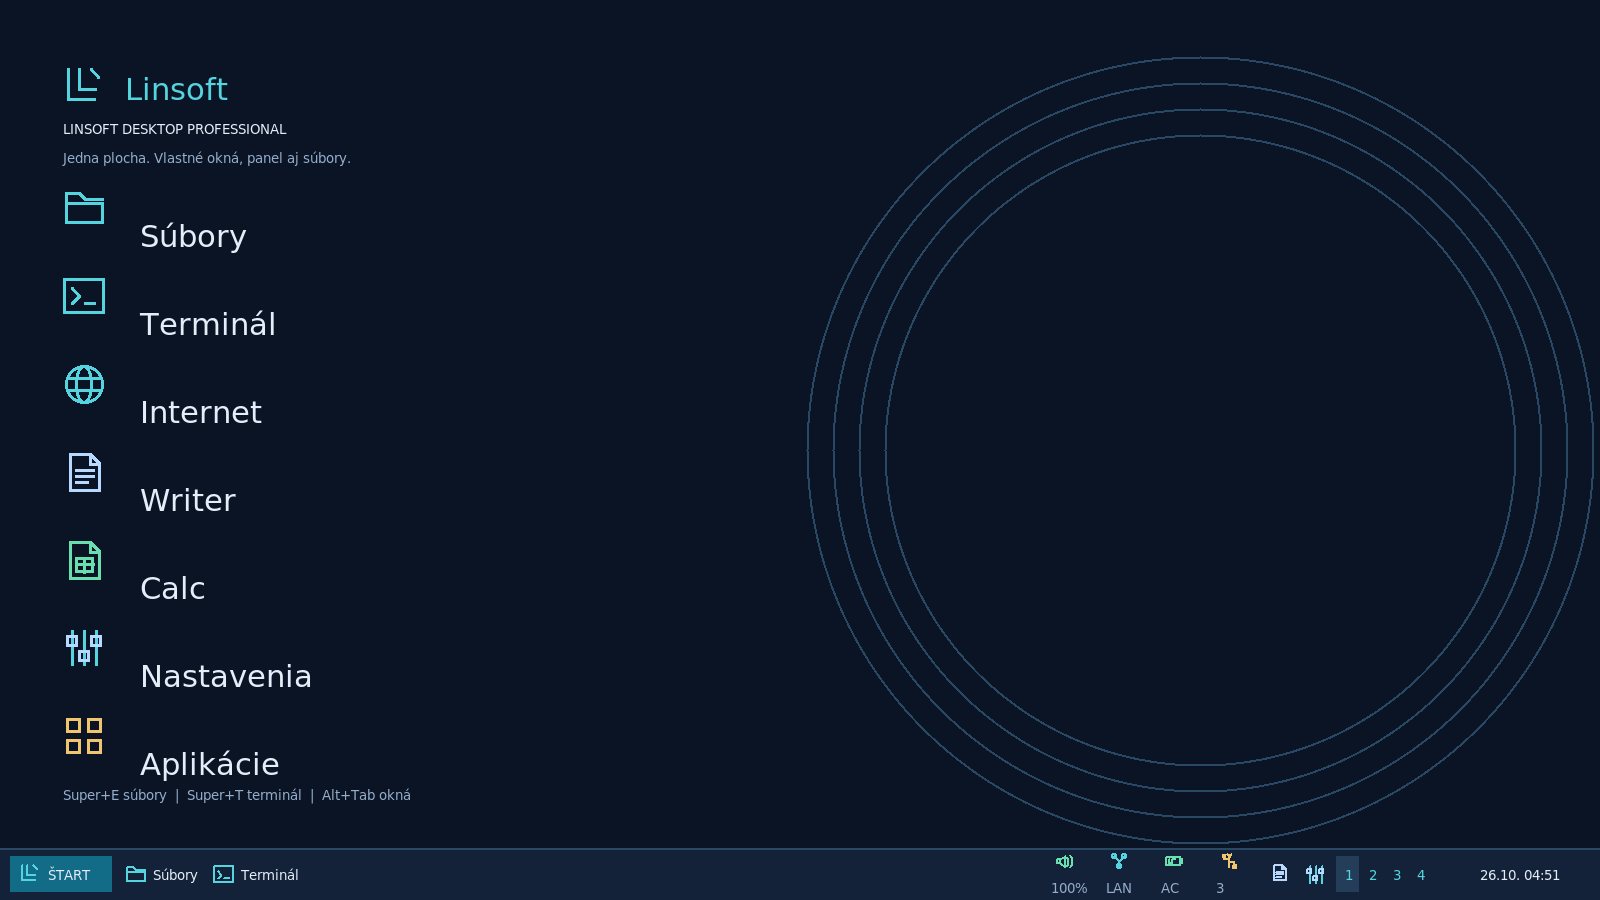
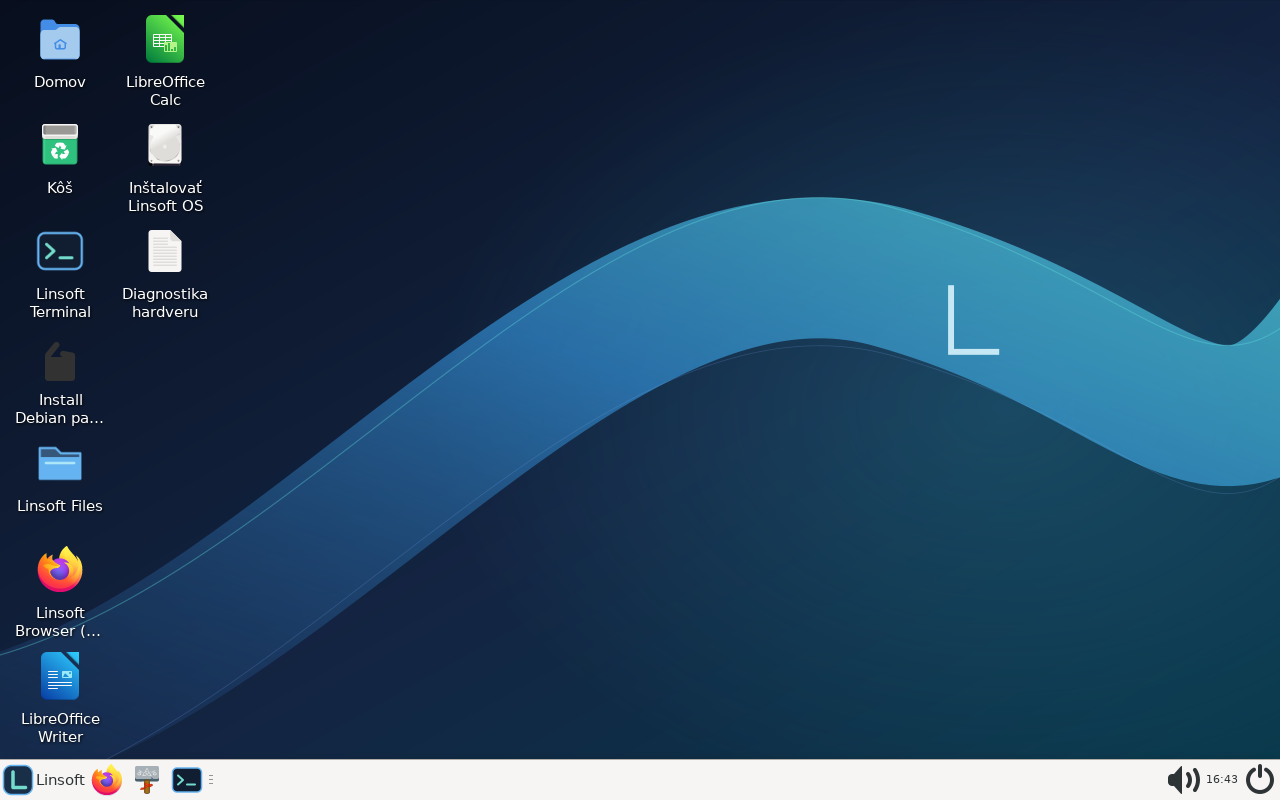
Linsoft OS 1.4: XFCE as the default desktop
XFCE 4.20 with a Linsoft panel, wallpaper and power menu is the default;
Linsoft Native stays selectable per user. Repair panel launchers left empty
by a power loss. Full ISO test (steps 1-7) passes.

diff --git a/docs/index.html b/docs/index.html
@@ -13,7 +13,7 @@
 <meta property="og:image" content="https://linsoft1.github.io/linsoft-os/img/desktop.png">
 <meta name="twitter:card" content="summary_large_image">
 <link rel="icon" type="image/svg+xml" href="favicon.svg">
-<link rel="stylesheet" href="style.css?v=1.3.0">
+<link rel="stylesheet" href="style.css?v=1.4.0">
 </head>
 <body>
 <a class="skip-link" href="#obsah">Preskočiť na obsah</a>
@@ -27,7 +27,7 @@
   </nav>
   <div class="hero-text">
     <h1>Linsoft OS</h1>
-    <p class="version">Verzia 1.3 · vydané 26. 10. 2026</p>
+    <p class="version">Verzia 1.4 · vydané 26. 10. 2026</p>
     <p class="tag">Váš priestor. Váš systém.</p>
     <p>Vlastný operačný systém postavený od základu na Linux From Scratch&nbsp;12.4 – s originálnou pracovnou plochou, správcom súborov a panelom napísanými v C.</p>
     <a class="btn" href="https://github.com/Linsoft1/linsoft-os/releases/latest/download/Linsoft-OS-Live.iso">⬇ Stiahnuť Live ISO</a>
@@ -43,7 +43,7 @@
   <div class="grid">
     <div><h3>Live režim</h3><p>Spustite systém priamo z USB alebo DVD. Nič sa nezapisuje na disk – zmeny sú iba v pamäti.</p></div>
     <div><h3>Inštalátor</h3><p>Nainštalujete Linsoft OS na celý disk alebo vedľa Windows, s heslom alebo s automatickým prihlásením. Podporuje BIOS aj UEFI vrátane Secure Boot (pozri <a href="#podpora">podporované počítače</a>).</p></div>
-    <div><h3>Vlastná plocha</h3><p>Originálny správca okien, panel, Štart s vyhľadávaním, 4 pracovné plochy a správca súborov s kartami.</p></div>
+    <div><h3>Plocha XFCE aj vlastná plocha</h3><p>Predvolene osvedčené prostredie XFCE s panelom Linsoft. Na výber aj originálna plocha Linsoft Native napísaná v C – správca okien, panel, Štart s vyhľadávaním a správca súborov s kartami.</p></div>
     <div><h3>Skutočný hardvér</h3><p>Jadro 6.18 LTS s ovládačmi Wi-Fi (Intel, Realtek, MediaTek, Atheros, Broadcom), grafiky AMD, NVIDIA a Intel, touchpadov a zvuku notebookov, vrátane firmvéru.</p></div>
     <div><h3>Wi-Fi a diagnostika</h3><p>Pripojenie na Wi-Fi s heslom (WPA2/WPA3) jedným klikom a diagnostika hardvéru, ktorá ukáže chýbajúce ovládače a firmvér.</p></div>
     <div><h3>Aplikácie</h3><p>Firefox, LibreOffice Writer a Calc, terminál, nastavenia a inštalácia dôveryhodných .deb balíkov.</p></div>
@@ -72,13 +72,13 @@
   <div class="table-wrap">
     <table class="ver">
       <tbody>
-        <tr><th scope="row">Linsoft OS</th><td>1.3 (Live + inštalátor)</td></tr>
+        <tr><th scope="row">Linsoft OS</th><td>1.4 (Live + inštalátor)</td></tr>
         <tr><th scope="row">Dátum vydania</th><td>26. 10. 2026</td></tr>
         <tr><th scope="row">Jadro</th><td>Linsoft Kernel 6.18.58 LTS (<code>6.18.58-linsoft-kernel</code>)</td></tr>
         <tr><th scope="row">Základ systému</th><td>Linux From Scratch 12.4</td></tr>
         <tr><th scope="row">Firmvér</th><td>Debian non-free-firmware (Wi-Fi, grafika, zvuk, Bluetooth)</td></tr>
         <tr><th scope="row">Aplikačné prostredie</th><td>Debian 13</td></tr>
-        <tr><th scope="row">Pracovná plocha</th><td>Linsoft Native (C, Xlib, Xft)</td></tr>
+        <tr><th scope="row">Pracovná plocha</th><td>XFCE 4.20 (predvolená) · Linsoft Native (C, Xlib, Xft) na výber</td></tr>
         <tr><th scope="row">Architektúra</th><td>x86-64 · BIOS aj UEFI · Secure Boot</td></tr>
         <tr><th scope="row">ISO súbor</th><td>Linsoft-OS-Live.iso · 1,81 GB (1,68 GiB)</td></tr>
       </tbody>
@@ -87,9 +87,18 @@
 </section>
 
 <section id="novinky">
-  <h2>Čo prináša verzia 1.3</h2>
+  <h2>Čo prináša verzia 1.4</h2>
   <div class="release-note">
-    <p class="version">26. 10. 2026 · aktualizácie jadra</p>
+    <p class="version">26. 10. 2026 · plocha XFCE</p>
+    <ul>
+      <li><b>XFCE ako predvolená plocha</b> – panel dole s ponukou Linsoft, prehliadačom, súbormi, terminálom, oknami, hlasitosťou, hodinami a tlačidlom vypnutia.</li>
+      <li>Tapeta Linsoft, tmavý vzhľad a čistá plocha bez ikon diskov.</li>
+      <li><b>Linsoft Native zostáva</b> – v okne <b>Zmeniť pracovné prostredie</b> si vyberiete XFCE alebo Linsoft Native pre ďalšie prihlásenie.</li>
+      <li>Nové okno <b>Vypnúť alebo odhlásiť</b>: zamknúť, odhlásiť, reštartovať, vypnúť.</li>
+    </ul>
+  </div>
+  <div class="release-note">
+    <p class="version">Verzia 1.3 · 26. 10. 2026 · aktualizácie jadra</p>
     <ul>
       <li><b>Aktualizácia jadra priamo v systéme</b> – okno Aktualizácie stiahne novšie jadro Linsoft Kernel z GitHubu a nainštaluje ho bez nového ISO.</li>
       <li>Balík jadra je podpísaný kľúčom Linsoft; podvrhnutý alebo poškodený balík sa odmietne skôr, než sa čokoľvek zmení.</li>
@@ -134,7 +143,7 @@
   <details class="verify">
     <summary>Ako overiť stiahnutý súbor</summary>
     <p>Porovnajte vypočítaný SHA-256 súčet ISO s touto hodnotou:</p>
-    <p><code class="hash">0cc98f4a4e7332fcb27a3e511b8ff31d720d61e32d118e70952461a64a3fd0ae</code></p>
+    <p><code class="hash">c6f0a8e5431552a09eb7e56165e0cfc03f49290f1aa73689ede5301db5945e1b</code></p>
     <p>Windows PowerShell: <code>Get-FileHash .\Linsoft-OS-Live.iso -Algorithm SHA256</code></p>
     <p>Linux: <code>sha256sum Linsoft-OS-Live.iso</code></p>
     <p>Kontrolný súčet sa dá stiahnuť aj zo <a href="https://github.com/Linsoft1/linsoft-os/releases/latest">stránky vydania</a>.</p>
@@ -218,7 +227,7 @@
 </main>
 
 <footer>
-  <p>Linsoft OS 1.3 · autor <b>Martin Pastorek</b> · postavené na <a href="https://www.linuxfromscratch.org/">Linux From Scratch</a>, Linuxe, Debiane a ďalšom open-source softvéri, ktorý patrí ich autorom.</p>
+  <p>Linsoft OS 1.4 · autor <b>Martin Pastorek</b> · postavené na <a href="https://www.linuxfromscratch.org/">Linux From Scratch</a>, Linuxe, Debiane a ďalšom open-source softvéri, ktorý patrí ich autorom.</p>
   <p><a href="https://github.com/Linsoft1/linsoft-os">Zdrojový kód</a> · <a href="https://github.com/Linsoft1/linsoft-os/issues">Nahlásiť problém</a> · <a href="https://github.com/Linsoft1/linsoft-os/releases">Vydania</a></p>
 </footer>
 </body>

diff --git a/README.md b/README.md
@@ -4,7 +4,7 @@
 from scratch on Linux From Scratch 12.4, with an original C/Xlib desktop
 (window manager, panel, Start menu and file manager).
 
-**Version:** Linsoft OS 1.3 (26 Oct 2026) · Linsoft Kernel 6.18 LTS · LFS 12.4 · Debian 13 apps · x86-64 BIOS/UEFI/Secure Boot
+**Version:** Linsoft OS 1.4 (26 Oct 2026) · Linsoft Kernel 6.18 LTS · LFS 12.4 · Debian 13 apps · x86-64 BIOS/UEFI/Secure Boot
 
 **Author:** Martin Pastorek – Native desktop programmed in C (Xlib/Xft) and the
 customized **Linsoft Kernel** (Linux 6.18 LTS: Wi-Fi, AMD/NVIDIA/Intel graphics,
@@ -45,6 +45,13 @@ first start asks once to enroll the Linsoft key in MokManager (see
 
 Known limits: Bluetooth has kernel drivers but no pairing UI yet, enterprise
 (802.1X) Wi-Fi is not supported, and NVIDIA uses the open nouveau driver.
+
+### Desktop
+
+Since 1.4 the default desktop is **XFCE** with a Linsoft taskbar, menu and
+wallpaper. The own **Linsoft Native** desktop (C/Xlib) is still included: open
+**Zmenit pracovne prostredie** (or the power button > *Zmenit pracovne
+prostredie*) and choose it for the next login.
 
 ### Kernel updates
 

diff --git a/linsoft/iso/README.md b/linsoft/iso/README.md
@@ -120,6 +120,18 @@ password on a shared computer and review
   SSH directories, logs and downloaded APT packages; the Debian machine IDs
   are regenerated.
 
+## Desktop
+
+`install-hardware-support` installs XFCE 4.20 in the Debian chroot and makes it
+the default (`/etc/linsoft-apps/default-desktop`). The Linsoft panel
+(`debian/xfce-panel.xml`), desktop settings (`debian/xfce-desktop.xml`) and
+the Linsoft wallpaper replace the XFCE defaults through `dpkg-divert`.
+`linsoft-app-session` reads the per-user choice from
+`~/.config/linsoft/desktop` (`xfce` or `native`), set with
+`linsoft-power desktop` (*Zmenit pracovne prostredie*). Power actions go through
+`linsoft-power` / `linsoft-session-action` because XFCE's own shutdown
+buttons need logind.
+
 ## Building
 
 Run as root in WSL/Linux (Ubuntu 24.04 packages: `qemu-utils squashfs-tools

diff --git a/CHANGELOG.md b/CHANGELOG.md
@@ -3,6 +3,17 @@
 All notable changes to Linsoft OS. Versions follow the GitHub releases
 (https://github.com/Linsoft1/linsoft-os/releases).
 
+## 1.4 – XFCE desktop by default
+
+* **XFCE 4.20 is the default desktop**: bottom taskbar with the Linsoft menu,
+  browser, files, terminal, open windows, volume, clock and a power button;
+  Linsoft wallpaper and dark theme, no drive icons on the desktop.
+* **Linsoft Native stays available**: *Zmenit pracovne prostredie* (in both
+  desktops and in the power menu) chooses XFCE or Linsoft Native for the next
+  login, per user.
+* New power menu (lock, log out, restart, shut down) using the authorized
+  Linsoft session requests.
+
 ## 1.3 – Kernel updates in the system
 
 * **In-system kernel updates**: Aktualizacie downloads a newer Linsoft Kernel
